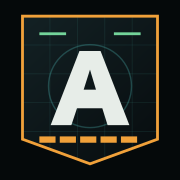
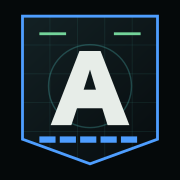
Fix mobile navigation overlay and switch to cool blue

Changed region(s): [[0.1111, 0.0556, 0.8889, 0.9167]]

diff --git a/styles.css b/styles.css
@@ -128,8 +128,8 @@ input::placeholder,textarea::placeholder{color:#69706f}
   --text:#e7ede8;
   --muted:#a6b0aa;
   --faint:#6f7d77;
-  --ember:#f1a13a;
-  --ember-bright:#ffc062;
+  --ember:#4e9eff;
+  --ember-bright:#9bcaff;
   --cyan:#54c8c6;
   --violet:#8ca8bd;
   --green:#73d49a;
@@ -249,3 +249,37 @@ button:focus-visible,a:focus-visible,input:focus-visible,textarea:focus-visible{
   .ops-strip span{padding:0 9px}.briefing-head h1{font-size:41px}.micro-label,.status-code{font-size:10.5px}.weather-actions a{display:none}.weather-actions{grid-template-columns:1.2fr 1fr}.gate-classification span:last-child{display:none}.gate-classification{justify-content:flex-start}
 }
 @media(prefers-reduced-motion:reduce){body:after{display:none}}
+
+/* V5.1 cool-response palette + mobile navigation containment */
+body{background:linear-gradient(rgba(84,200,198,.025) 1px,transparent 1px),linear-gradient(90deg,rgba(84,200,198,.025) 1px,transparent 1px),radial-gradient(circle at 82% 12%,rgba(78,158,255,.055),transparent 31rem),linear-gradient(145deg,#05090a 0%,#071015 52%,#040708 100%);background-size:32px 32px,32px 32px,auto,auto}
+.noise{background:linear-gradient(90deg,transparent 0,rgba(78,158,255,.018) 50%,transparent 100%)}
+.access-gate{background:linear-gradient(rgba(84,200,198,.025) 1px,transparent 1px),linear-gradient(90deg,rgba(84,200,198,.025) 1px,transparent 1px),radial-gradient(circle at 18% 28%,rgba(78,158,255,.08),transparent 28rem),#040809;background-size:40px 40px,40px 40px,auto,auto}
+.gate-welcome{border-left-color:rgba(78,158,255,.42)}
+.brand-symbol{border-color:rgba(78,158,255,.5);box-shadow:inset 0 0 0 3px #071012,0 0 22px rgba(78,158,255,.1)}
+.gate-panel{border-color:rgba(78,158,255,.38)}
+.gate-panel-top{background:rgba(78,158,255,.08);border-color:rgba(78,158,255,.2)}
+.gate-password-field:focus-within{box-shadow:0 0 0 2px rgba(78,158,255,.14),inset 4px 0 var(--ember)}
+.gate-submit,.solid-action{color:#030a13;text-shadow:0 1px rgba(255,255,255,.2)}
+.app-header{border-bottom-color:rgba(78,158,255,.28)}
+.switch.active{background:linear-gradient(90deg,rgba(78,158,255,.16),rgba(78,158,255,.025));border-color:rgba(78,158,255,.3)}
+.outline-action:hover,.weather-actions button:hover,.weather-actions a:hover{background:rgba(78,158,255,.08);border-color:rgba(78,158,255,.58)}
+.mission-card{background:linear-gradient(110deg,rgba(78,158,255,.08),transparent 48%),linear-gradient(180deg,#0d171d,#070d11);border-color:rgba(78,158,255,.4)}
+.mission-card:before{border-color:rgba(78,158,255,.18)}
+.mission-date{border-color:rgba(78,158,255,.3)}
+.command-input:focus-within{border-color:rgba(78,158,255,.68)}
+.progress-orbit{border-color:rgba(78,158,255,.34);box-shadow:0 0 0 6px rgba(78,158,255,.04)}
+.task-deck,.project-deck{border-top-color:rgba(78,158,255,.36)}
+.filter.active{background:rgba(78,158,255,.15)!important;border-color:rgba(78,158,255,.38)!important}
+.action-toast{border-color:rgba(78,158,255,.32)}
+.command-input button,.large-command button{color:#030a13}
+.large-command input:focus,.note-composer>input:focus,.note-composer>textarea:focus{border-color:rgba(78,158,255,.62);box-shadow:0 0 0 3px rgba(78,158,255,.08)}
+.project-card.ember{--pt:rgba(78,158,255,.13)}
+.delete-task:hover{background:rgba(227,106,88,.12);color:var(--red)}
+@media(max-width:1100px){
+  .view-switcher{align-self:auto;display:grid;flex-direction:row;height:76px;max-height:76px;min-height:0;overflow:hidden;padding:5px;position:fixed;top:auto}
+  .switch.active{background:rgba(78,158,255,.14);border-color:rgba(78,158,255,.28)}
+}
+@media(max-width:520px){
+  .view-switcher{height:72px;max-height:72px;min-height:0}
+  .mission-date{border-bottom-color:rgba(78,158,255,.28)}
+}

diff --git a/index.html b/index.html
@@ -16,7 +16,7 @@
     <link rel="icon" href="./icon-192.png" sizes="192x192" type="image/png" />
     <link rel="apple-touch-icon" href="./icon-180.png" sizes="180x180" />
     <link rel="manifest" href="./manifest.webmanifest" />
-    <link rel="stylesheet" href="./styles.css?v=18" />
+    <link rel="stylesheet" href="./styles.css?v=19" />
     <script src="./app.js?v=13" defer></script>
   </head>
   <body class="locked">
@@ -323,7 +323,7 @@
         </section>
       </main>
 
-      <footer class="app-footer"><span>ALEX//HQ · FIELD TERMINAL</span><p id="save-status" role="status">LOCAL DATA CHANNEL NOMINAL</p><b>V5.0.0</b></footer>
+      <footer class="app-footer"><span>ALEX//HQ · FIELD TERMINAL</span><p id="save-status" role="status">LOCAL DATA CHANNEL NOMINAL</p><b>V5.1.0</b></footer>
 
       <section class="radar-modal" id="radar-modal" hidden>
         <div class="radar-backdrop" data-radar-close aria-hidden="true"></div>

diff --git a/sw.js b/sw.js
@@ -1,5 +1,5 @@
-const CACHE = "alex-hq-v19";
-const APP = ["./", "./index.html", "./styles.css?v=18", "./app.js?v=13", "./manifest.webmanifest", "./icon.svg", "./icon-180.png", "./icon-192.png", "./icon-512.png"];
+const CACHE = "alex-hq-v20";
+const APP = ["./", "./index.html", "./styles.css?v=19", "./app.js?v=13", "./manifest.webmanifest", "./icon.svg", "./icon-180.png", "./icon-192.png", "./icon-512.png"];
 
 self.addEventListener("install", (event) => {
   event.waitUntil(caches.open(CACHE).then((cache) => cache.addAll(APP)).then(() => self.skipWaiting()));
